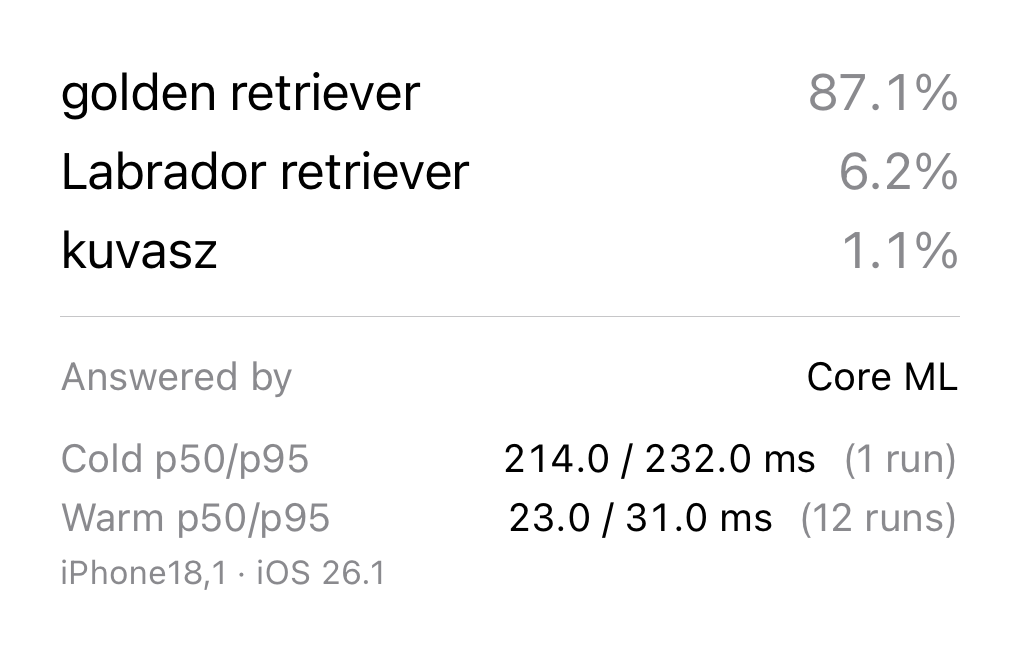
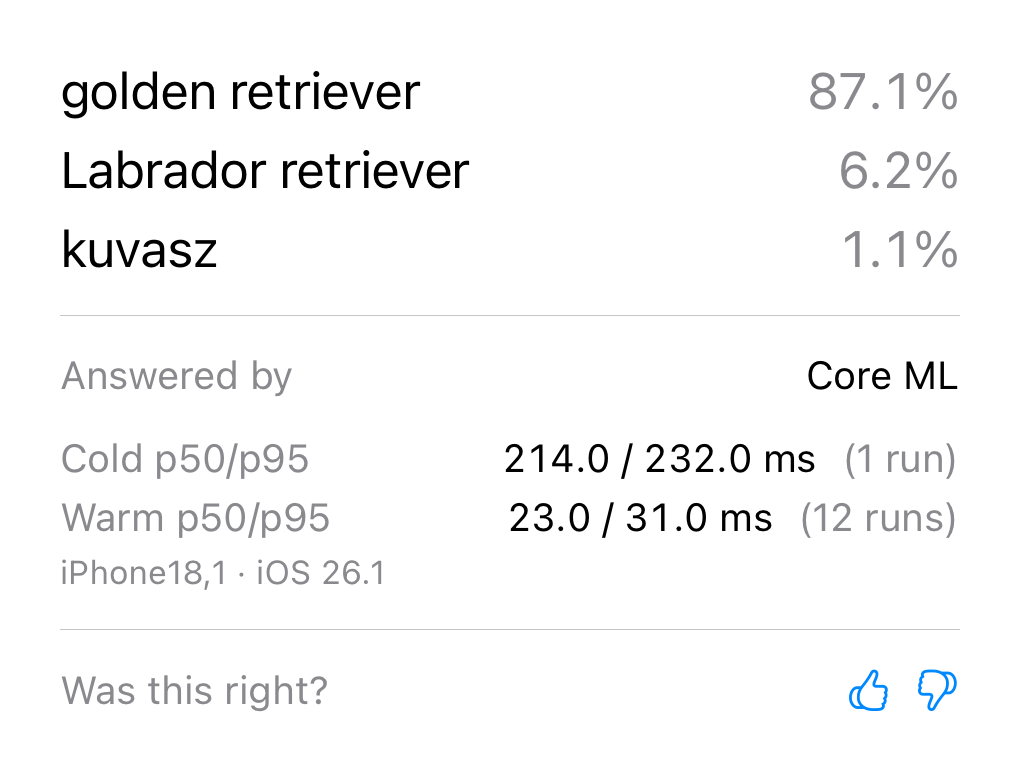
docs(media): state-06 shows the thumbs row, unselected — the open decision, made
The previous commit recorded the question and deliberately did not answer
it; this one answers it. The result image now shows the affordance rung 25
built: a Was-this-right? row with BOTH symbols unfilled. The fixture keeps
`signal` nil and hands the view a no-op closure, so the picture offers the
control while depicting no judgement given and nothing written — the
caption's sentence, drawn. A filled thumb would put a fabricated signal
into an image whose caption says no ledger row exists; unselected is the
only honest rendering of this control.

Only state-06 and the manifest change (1020x654 to 1020x774 px, 69,980 to
79,999 bytes, total 179,600 — under every ADR-0007 ceiling, re-asserted at
render time). The other five came back byte-identical. The alt text gains
the row; the caption keeps its sha, because the view code that draws the
row is the rung-25 feat commit — the fixture only asks for what that code
already draws.

diff --git a/Tests/InferlensUITests/StateScreenshotTests.swift b/Tests/InferlensUITests/StateScreenshotTests.swift
@@ -101,7 +101,14 @@ final class StateScreenshotTests: XCTestCase {
                 ),
                 device: "iPhone18,1",
                 os: "iOS 26.1"
-            )
+            ),
+            // The thumbs row, rendered as pure AFFORDANCE: `signal` stays nil so neither symbol
+            // is filled, and the tap goes to a no-op — the picture offers the control while
+            // claiming no judgement given and nothing written, which is the caption's sentence
+            // drawn. A filled thumb would put a fabricated signal into an image whose caption says
+            // no ledger row exists; unselected is the only honest rendering of this control.
+            signal: nil,
+            onSignal: { _ in }
         )
     }
 

diff --git a/README.md b/README.md
@@ -292,7 +292,7 @@ In the order a user meets them:
 | <img src="docs/media/state-03-inferring.png" width="430" alt="A spinner reading: Classifying…"> | **Classifying.** The photo is being run through the engine. |
 | <img src="docs/media/state-04-success-degraded.png" width="430" alt="A result marked Classified, with a banner reading: Core ML answered — TensorFlow Lite was unavailable."> | **Answered, but degraded.** A result came back, and not from the engine that was asked. The banner names both ends of the fallback rather than saying only that something went wrong. |
 | <img src="docs/media/state-05-failed-retryable.png" width="430" alt="A failure reading: Couldn't classify this photo, with a Try again button."> | **Failed, retryable.** No result came back, and trying again could plausibly work, so the button is offered. When it could not, the screen says so instead of offering a button that cannot help. |
-| <img src="docs/media/state-06-result.png" width="430" alt="A result screen listing golden retriever 87.1 percent, Labrador retriever 6.2 percent and kuvasz 1.1 percent; answered by Core ML; cold p50/p95 214.0 / 232.0 ms over 1 run; warm p50/p95 23.0 / 31.0 ms over 12 runs; iPhone18,1 · iOS 26.1."> | **The result.** Top three with confidence, which engine answered, and p50/p95 split cold from warm with the run count beside each figure. **Every number in this picture was typed by hand** — see the note under the table. |
+| <img src="docs/media/state-06-result.png" width="430" alt="A result screen listing golden retriever 87.1 percent, Labrador retriever 6.2 percent and kuvasz 1.1 percent; answered by Core ML; cold p50/p95 214.0 / 232.0 ms over 1 run; warm p50/p95 23.0 / 31.0 ms over 12 runs; iPhone18,1 · iOS 26.1; and an unselected thumbs-up/down row reading: Was this right?"> | **The result.** Top three with confidence, which engine answered, and p50/p95 split cold from warm with the run count beside each figure. **Every number in this picture was typed by hand** — see the note under the table. |
 
 *All six of these are rendered from fabricated values; no engine ran, nothing was written to the
 ledger. iPhone 17 Pro (iPhone18,1), iOS 26.1, from the view code at `79b8d0b`.*